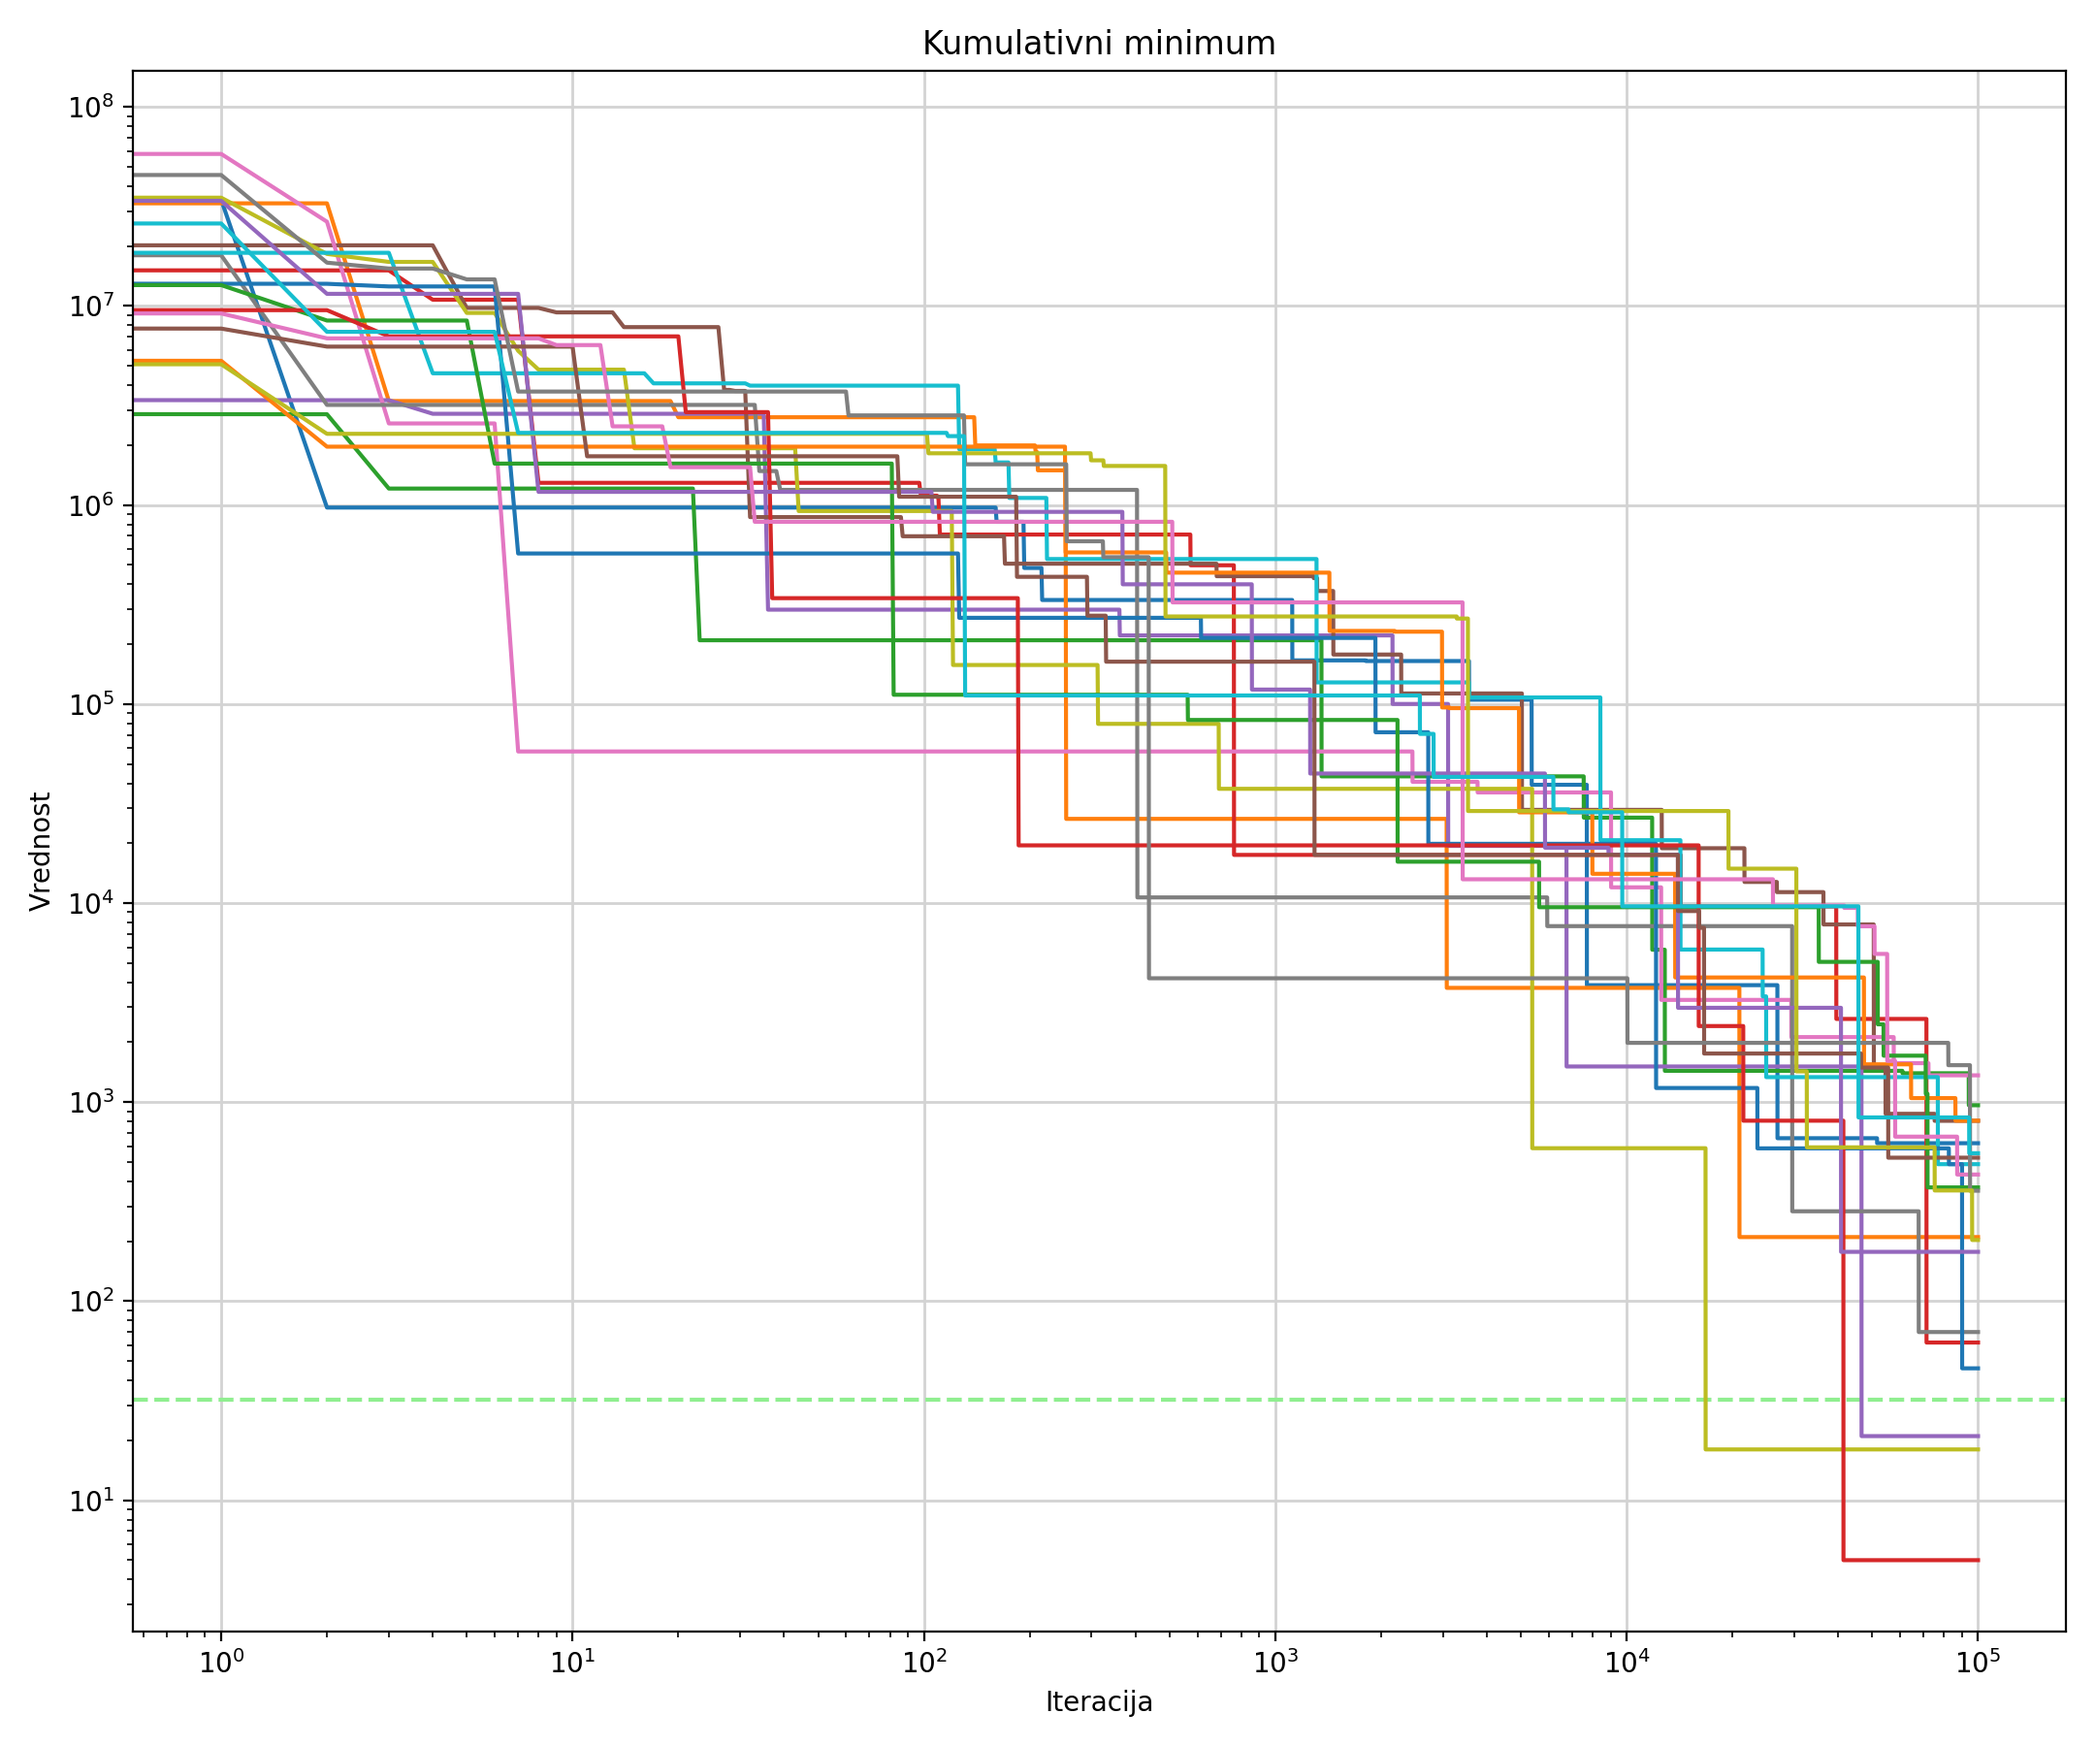
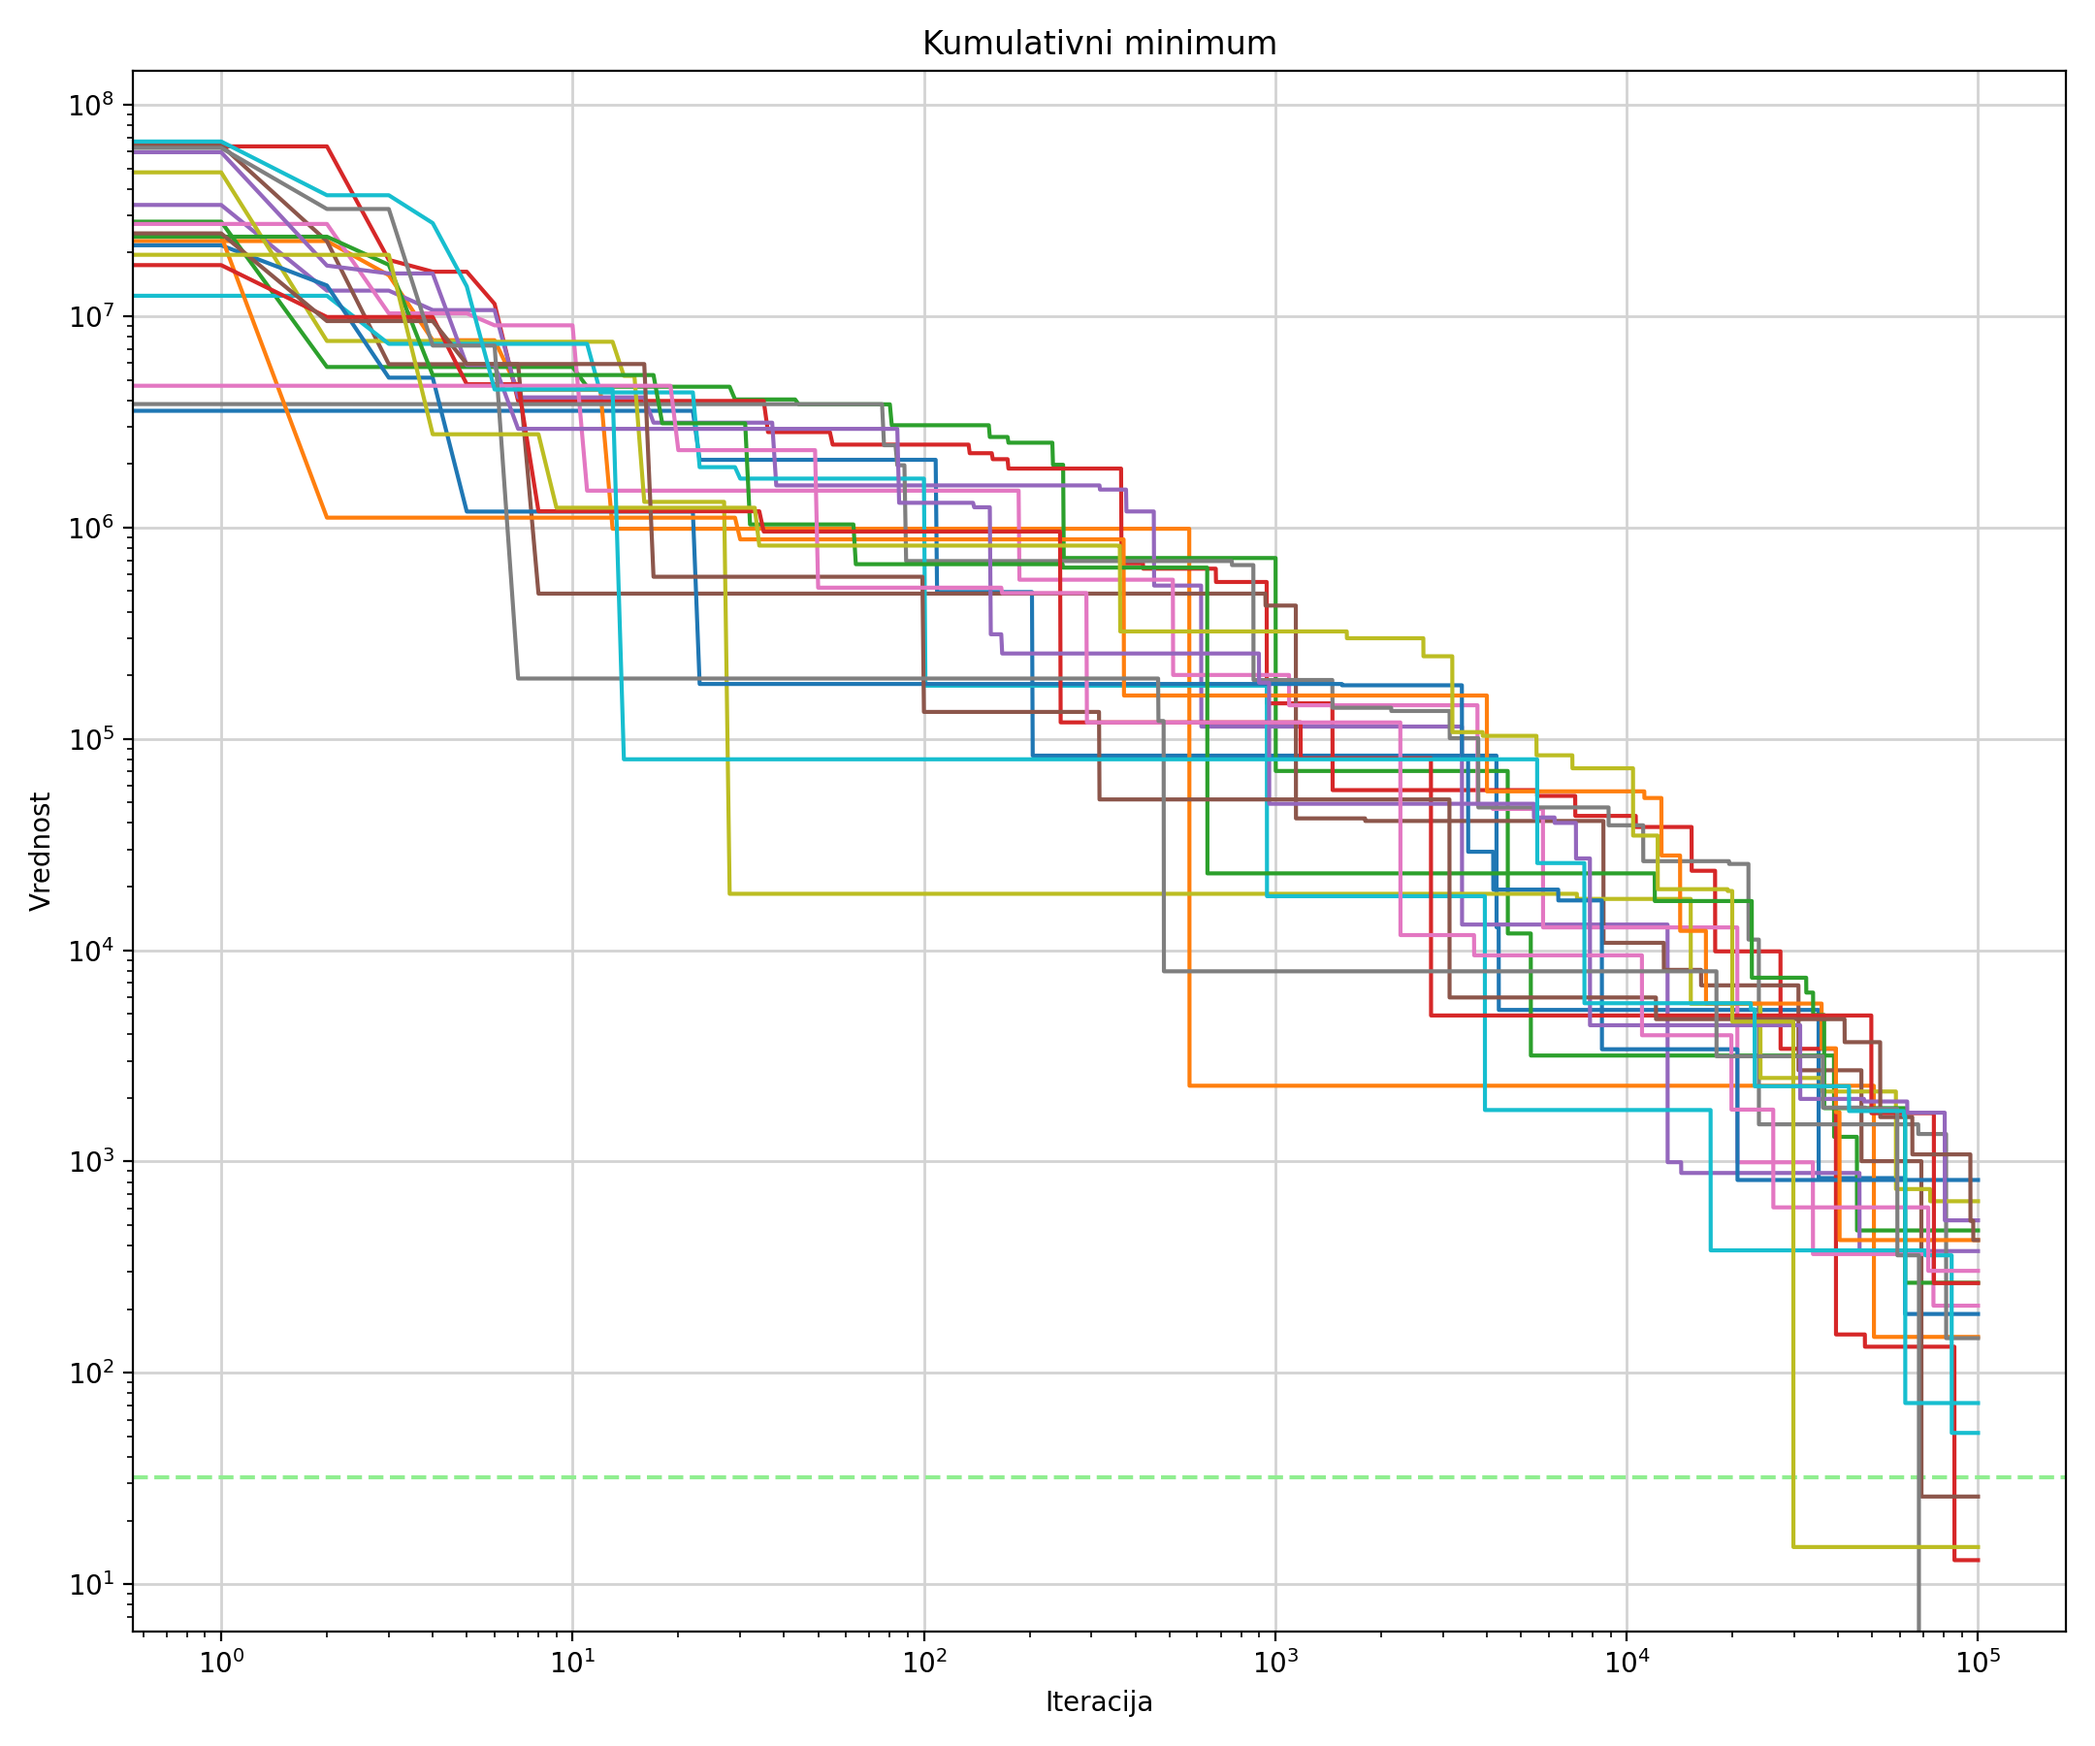
Fixed some bugs, found best result for simulated annealing (result is 0)

diff --git a/K_2/Resenja/DZ_7/Simulated Annealing/main.py b/K_2/Resenja/DZ_7/Simulated Annealing/main.py
@@ -13,7 +13,7 @@ FILES = [173669, 275487, 1197613, 1549805, 502334, 217684, 1796841, 274708,
          2304253, 4761871, 205387, 6148422, 414559, 2893305, 2158562, 465972, 304078,
          1841018, 1915571]
 
-a = np.linspace(0.94, 0.96, num=100000)
+a = np.linspace(0.94, 0.96, 100000)
 
 
 def optimization_function(X):
@@ -38,7 +38,7 @@ def simulated_anealing(X):
     cummulative_minimum.append(current_x_function)
     current_minimum_combination = current_x.copy()
 
-    h_min = 5
+    h_min = 2
     h_max = 45
 
     current_iteration = 1
@@ -92,7 +92,8 @@ def simulated_anealing(X):
 if __name__ == '__main__':
 
     tuple_data = []
-
+    current_optimization_best = 2 * 1024**2
+    best_array = []
     for i in range(0, 20):
         init_array = np.zeros(64)
         number_of_ones = np.round(random.uniform(0, 64))
@@ -101,12 +102,15 @@ if __name__ == '__main__':
 
         np.random.shuffle(init_array)
         optimization_best, cumulative_minimum, best_combination = simulated_anealing(init_array.astype(int))
+        if(optimization_best < current_optimization_best):
+            current_optimization_best = optimization_best
+            best_array = best_combination.copy()
         tuple_data.append([optimization_best, cumulative_minimum, best_combination])
 
     average_cumulative_array = []
     iteration = 0
 
-    for i in range(0, len(tuple_data[0][1])):
+    for i in range(0, 100000):
         average = 0
         count = 0
         for j in tuple_data:
@@ -154,10 +158,9 @@ if __name__ == '__main__':
     x_values = np.arange(0, 100000)
     plt.plot(x_values, a)
     plt.show()
-    sorted_data = sorted(tuple_data, key=lambda x: x[0])
     print("===================")
-    print("Najbolje resenje: " + str(sorted_data[0][0]))
+    print("Najbolje resenje: " + str(current_optimization_best))
     print("--------------------")
     print("Dobijeno sa vrednostima: ")
-    print(tuple_data[0][2])
+    print(best_array)
     print("====================")
